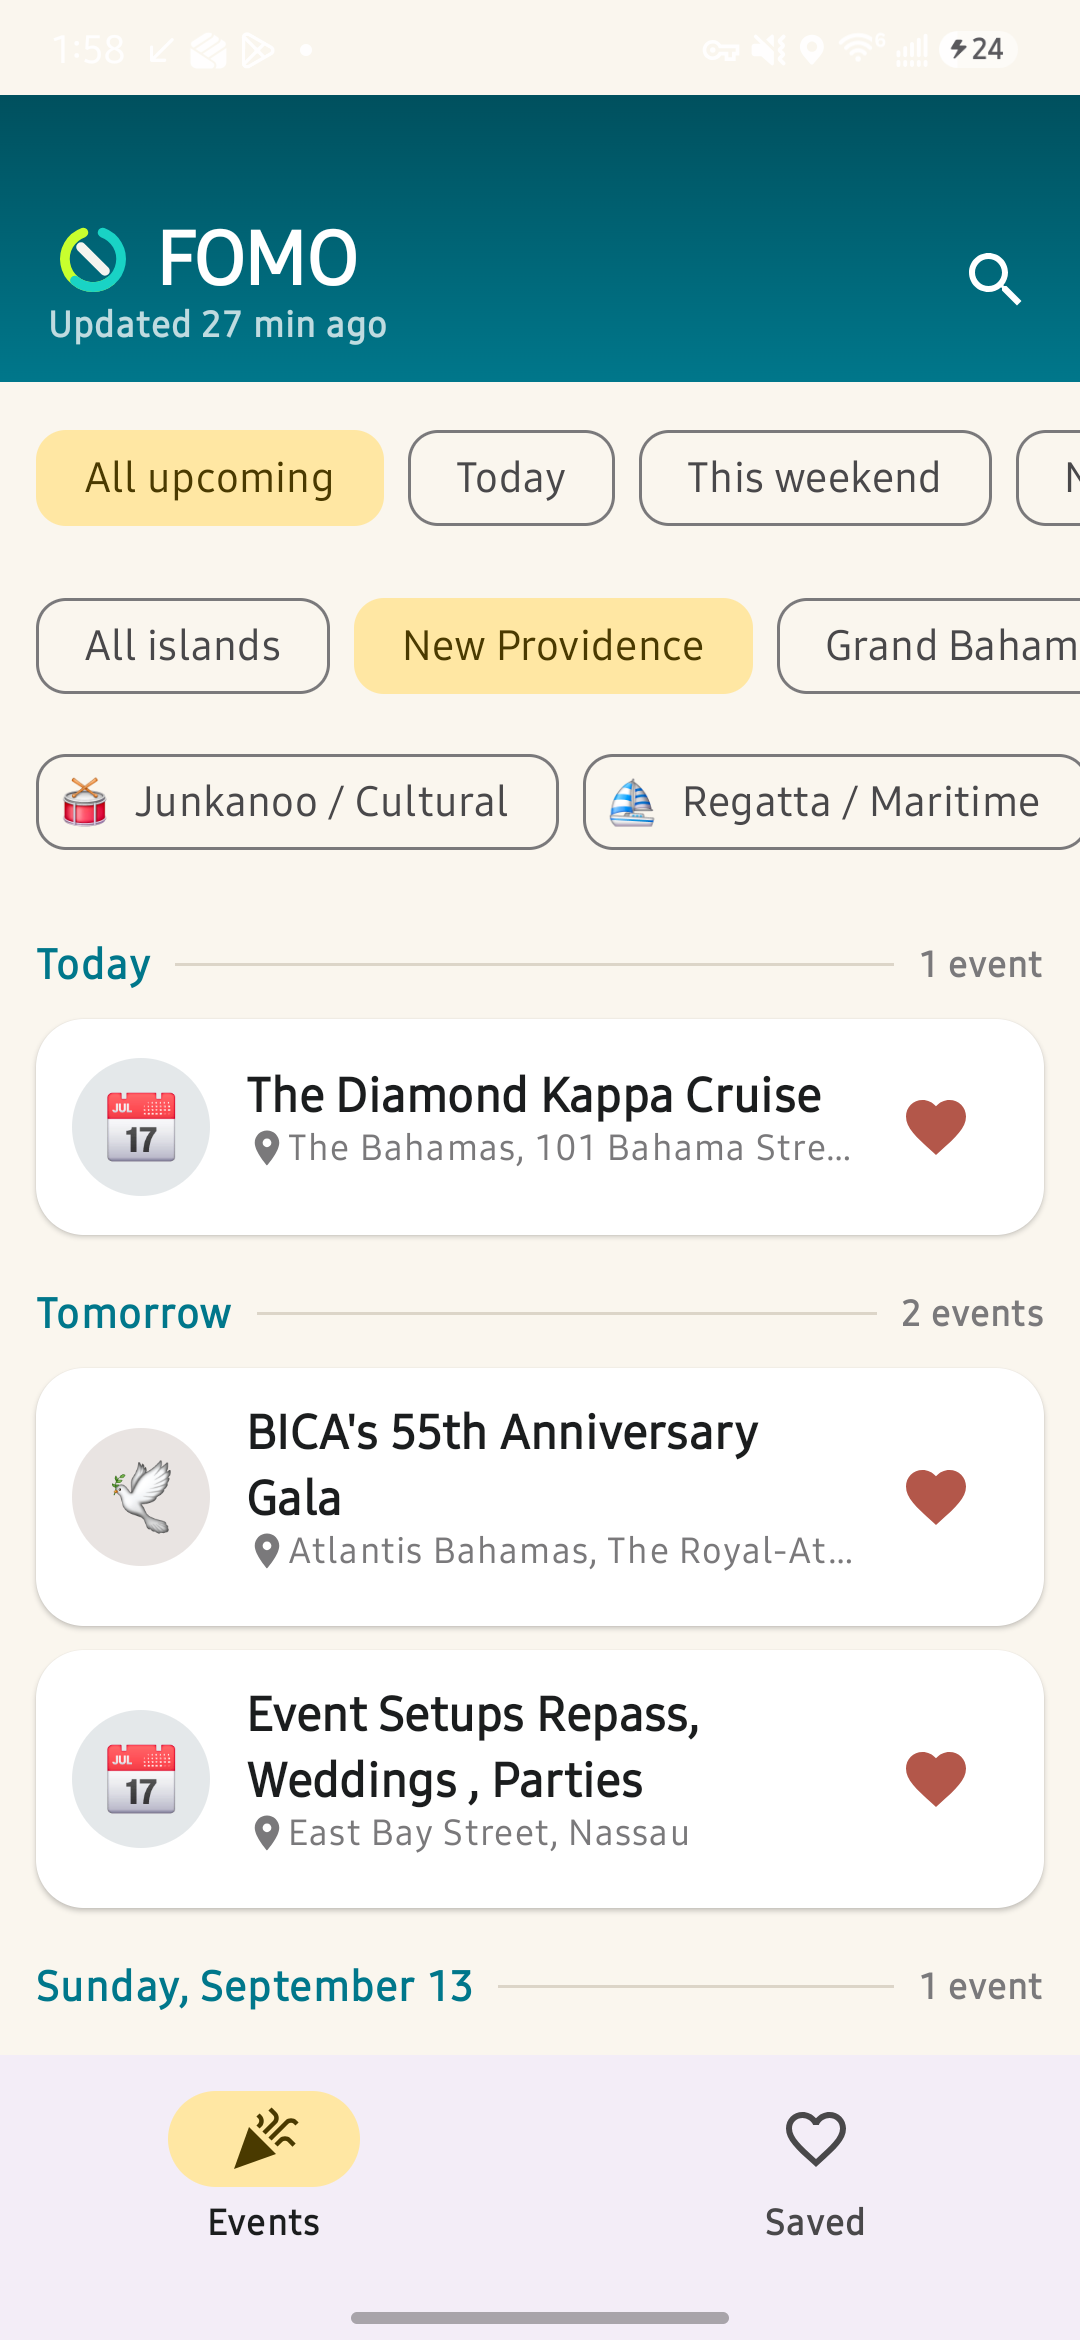
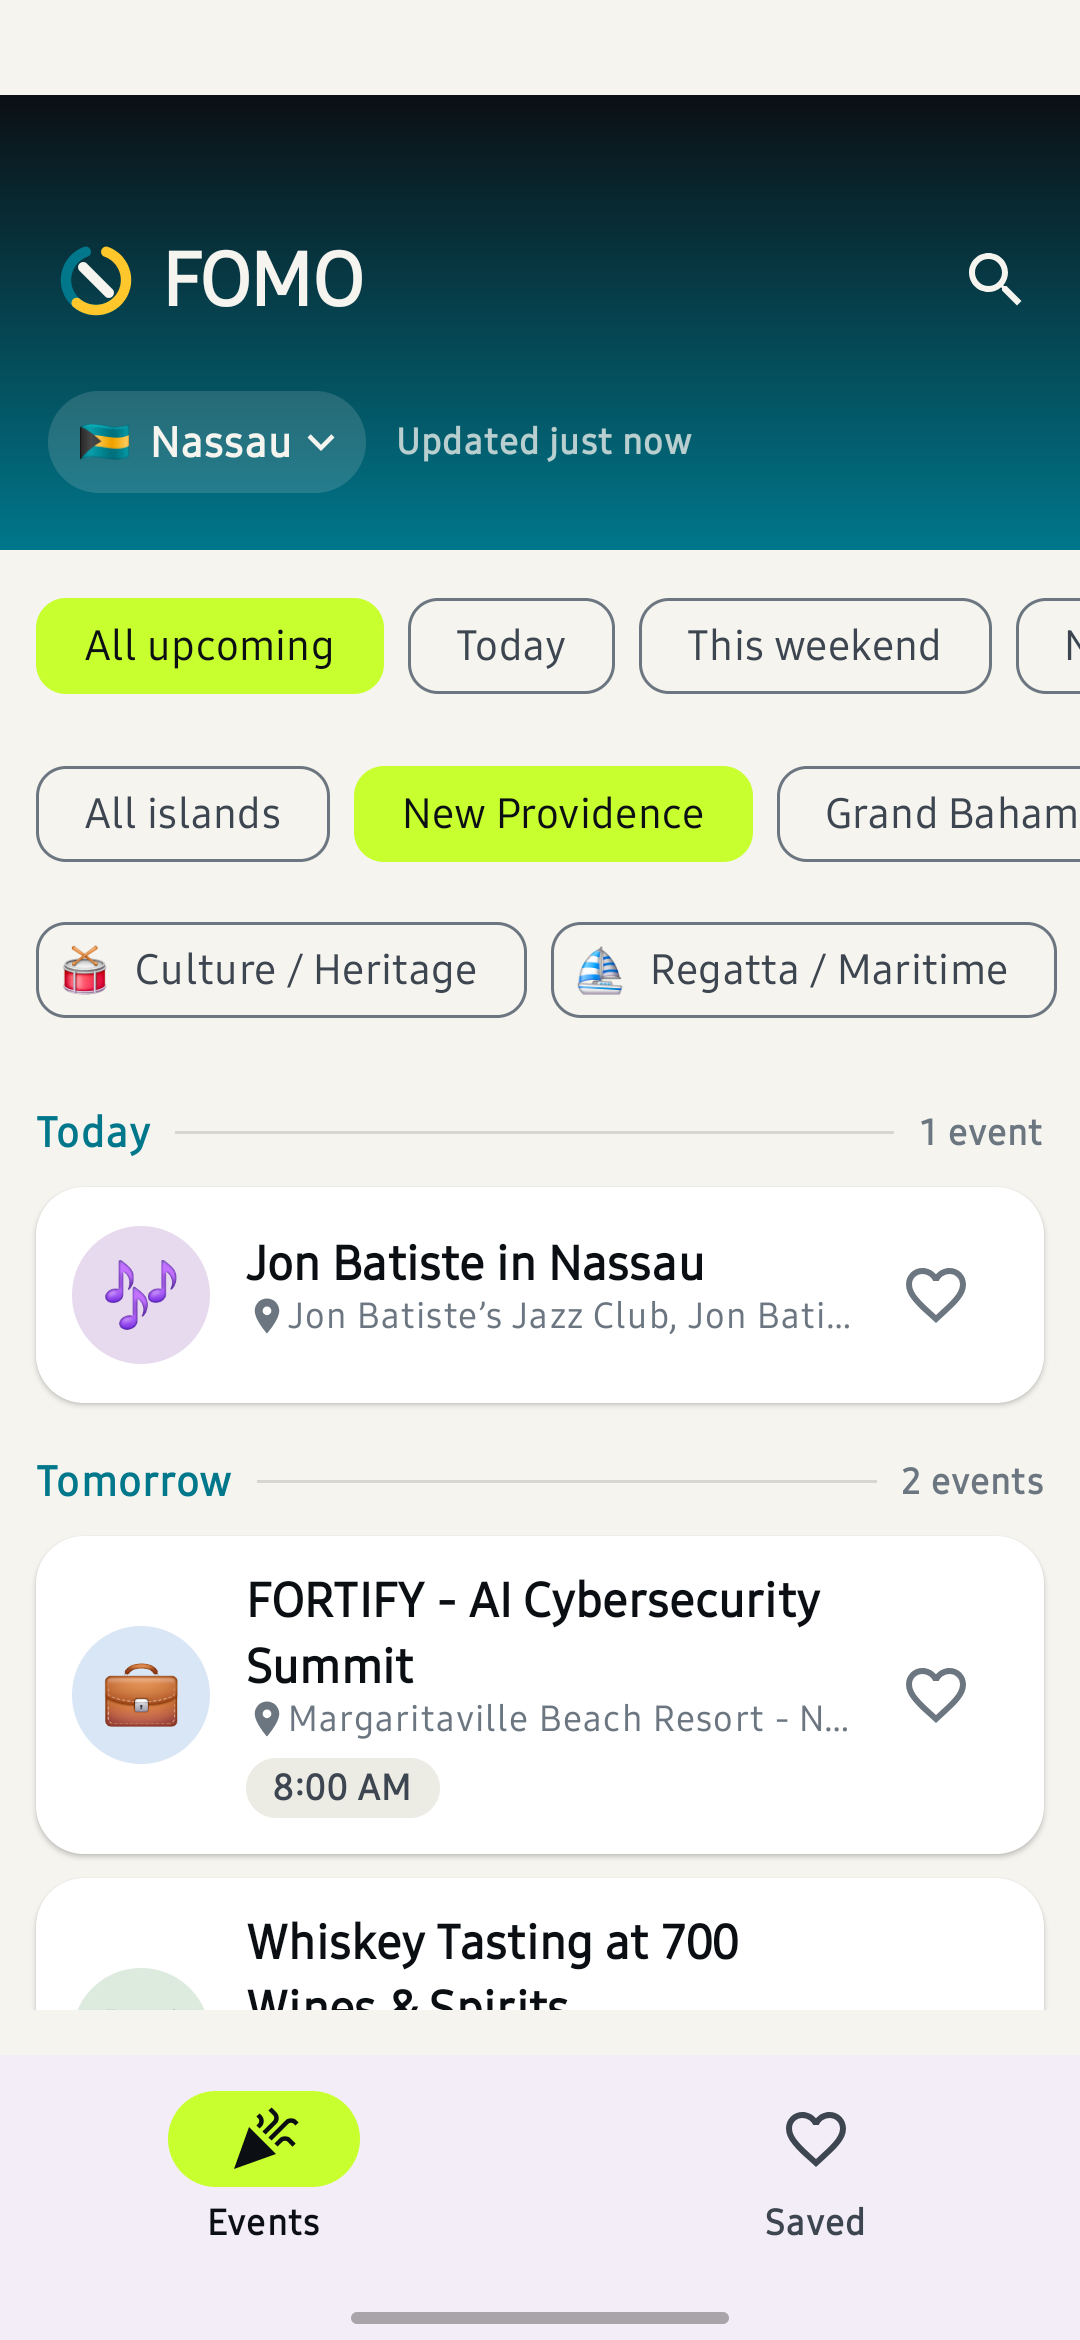
Store: retake the 4 phone screenshots on v0.9.0 (Bahamas theme, Nassau market)

diff --git a/docs/PLAY_CONSOLE_CHECKLIST.md b/docs/PLAY_CONSOLE_CHECKLIST.md
@@ -164,8 +164,9 @@ Data types to declare (leave every other type unchecked):
 - [x] Privacy policy page served from the Pages site at https://0fomo.app/privacy.html (DNS: 4 apex A records + www CNAME, DNS-only, added 2026-09-11).
 - [x] Store icon + feature graphic rendered from the mark.
 - [x] Listing copy (2026-09-16: location + forwarding lines match v0.9).
-- [ ] Phone screenshots (4, Galaxy S24+) — the current set shows the OLD teal
-      theme; retake on v0.9.x with the country-themed mark before submission.
+- [x] Phone screenshots (4, Galaxy S24+, 1080×2340) retaken 2026-09-16 on
+      v0.9.0 with the Bahamas country theme (Nassau feed, detail, weekend
+      filter, saved); status bar strip flattened.
 - [x] Privacy page + Data safety answers cover "Send to 0 FOMO" (2026-09-16).
 - [ ] Crash reporting (Crashlytics) — not required for submission; planned before
       the 50 % rollout step.
